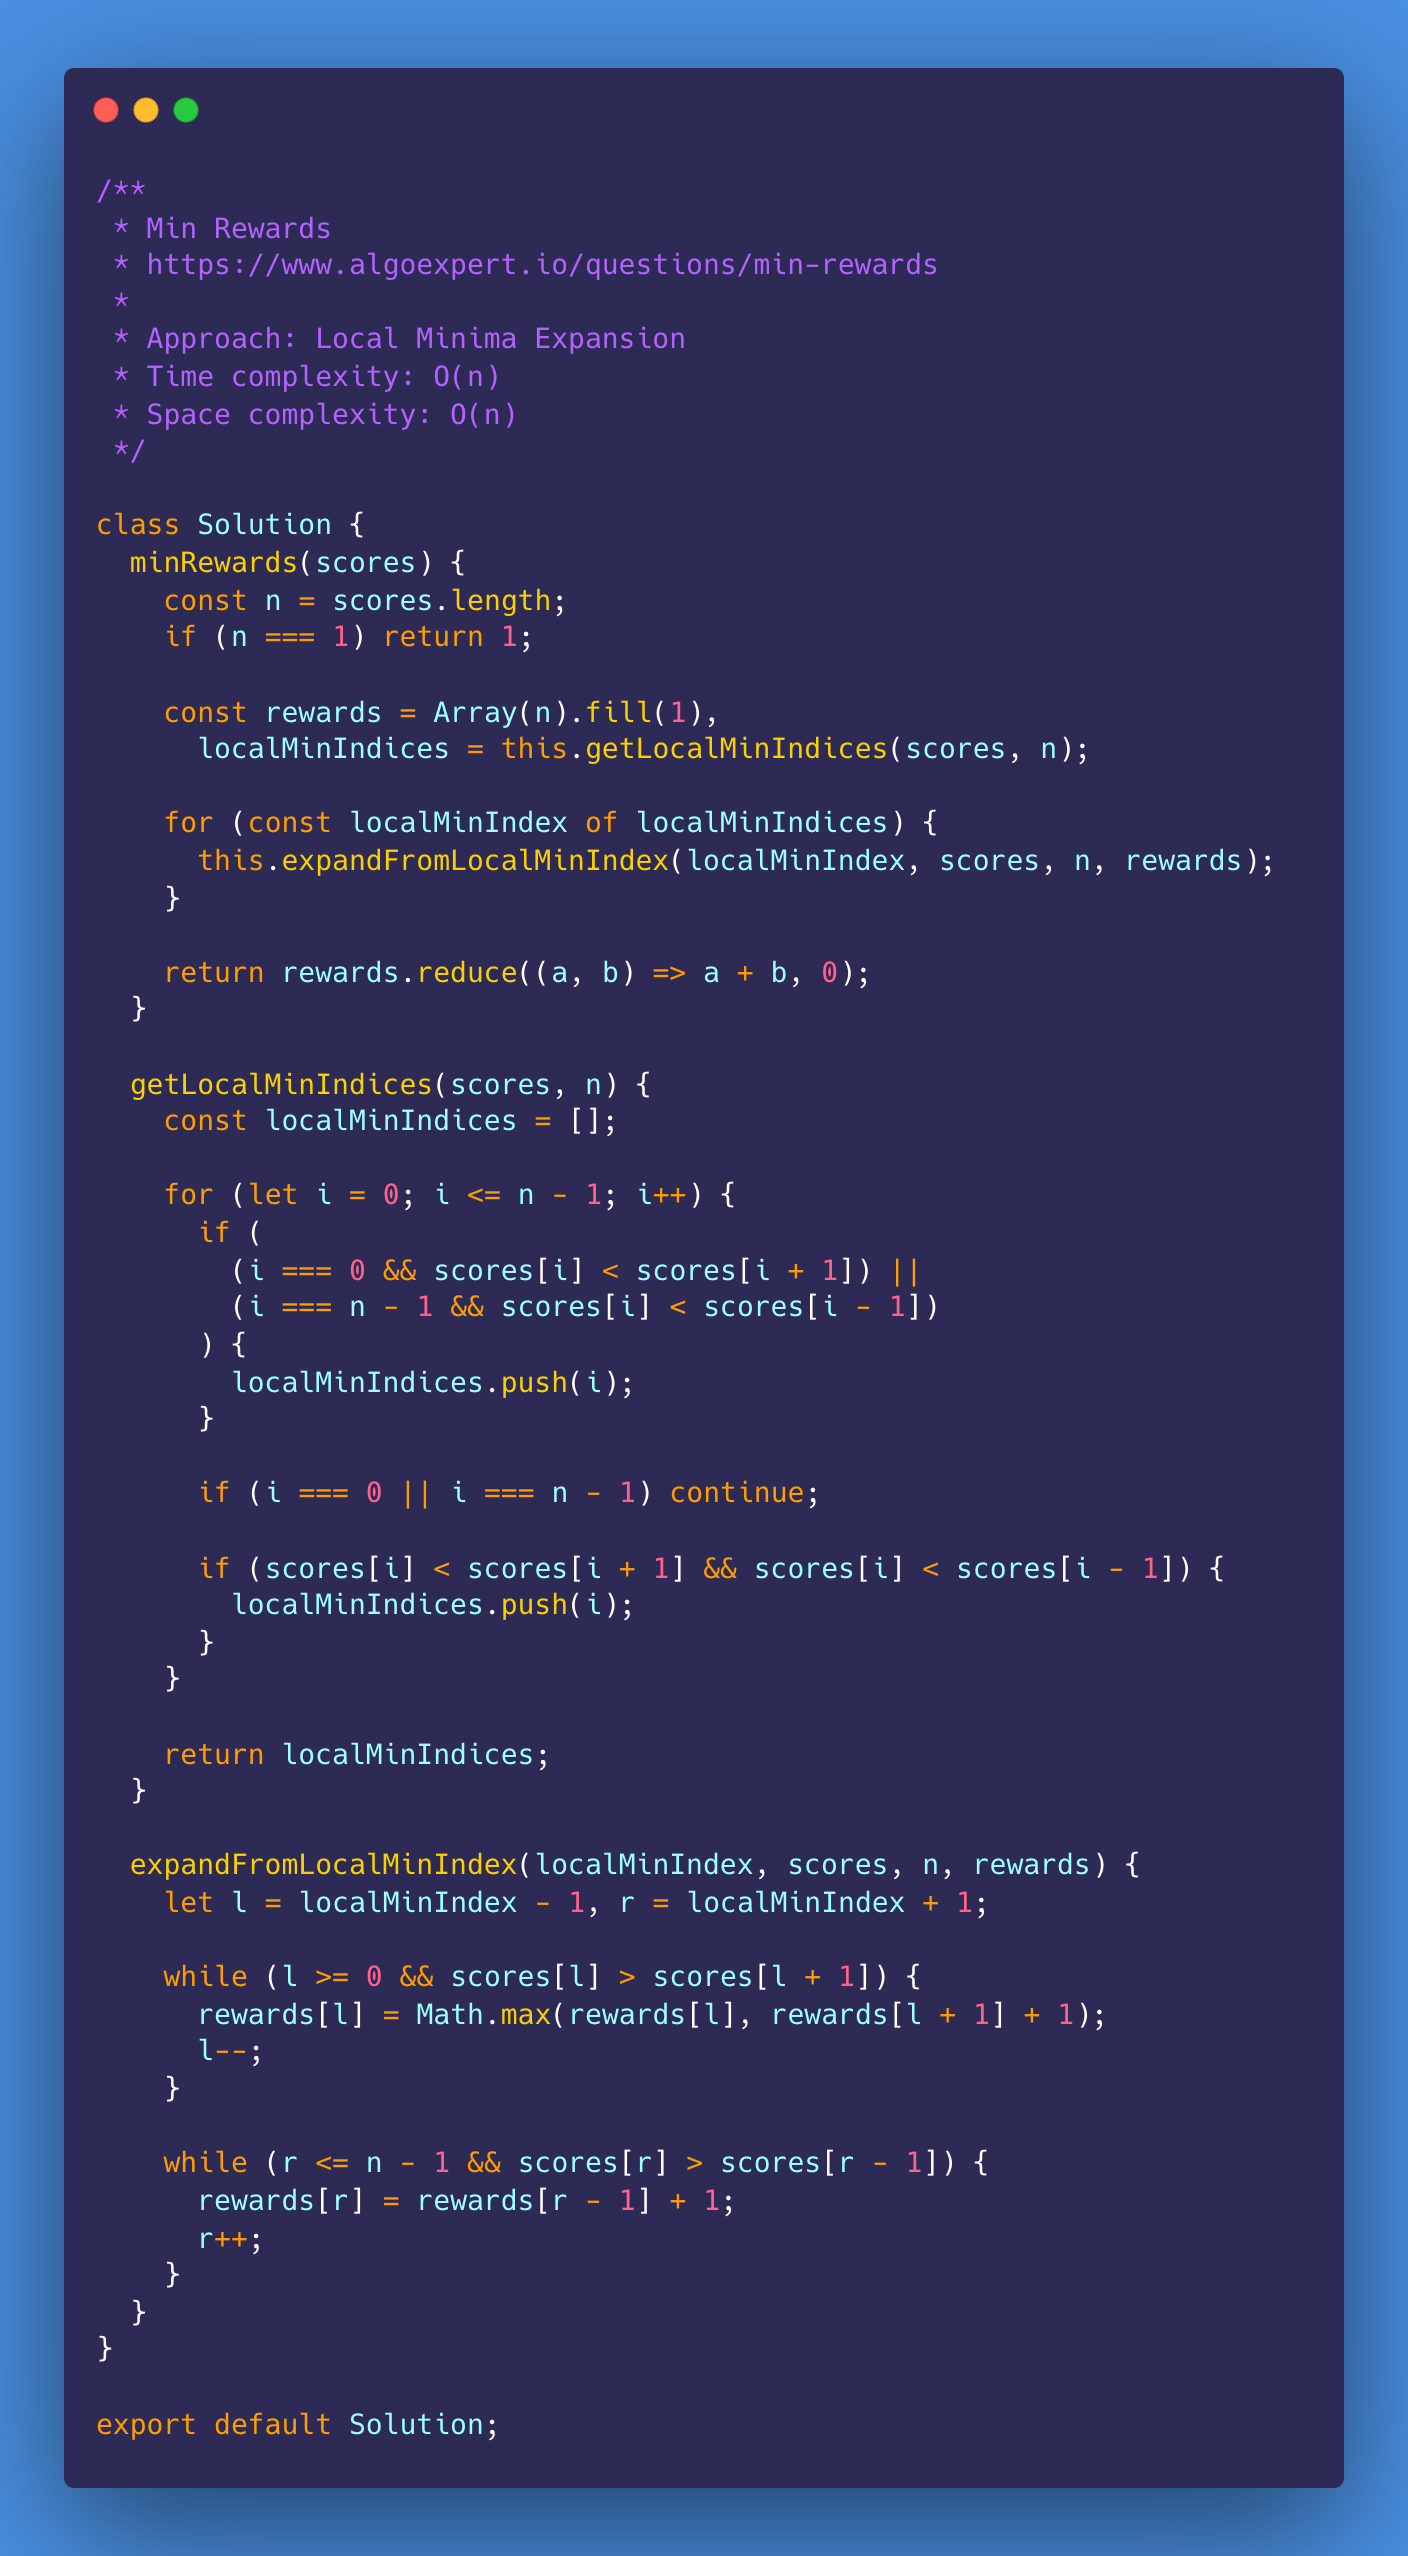
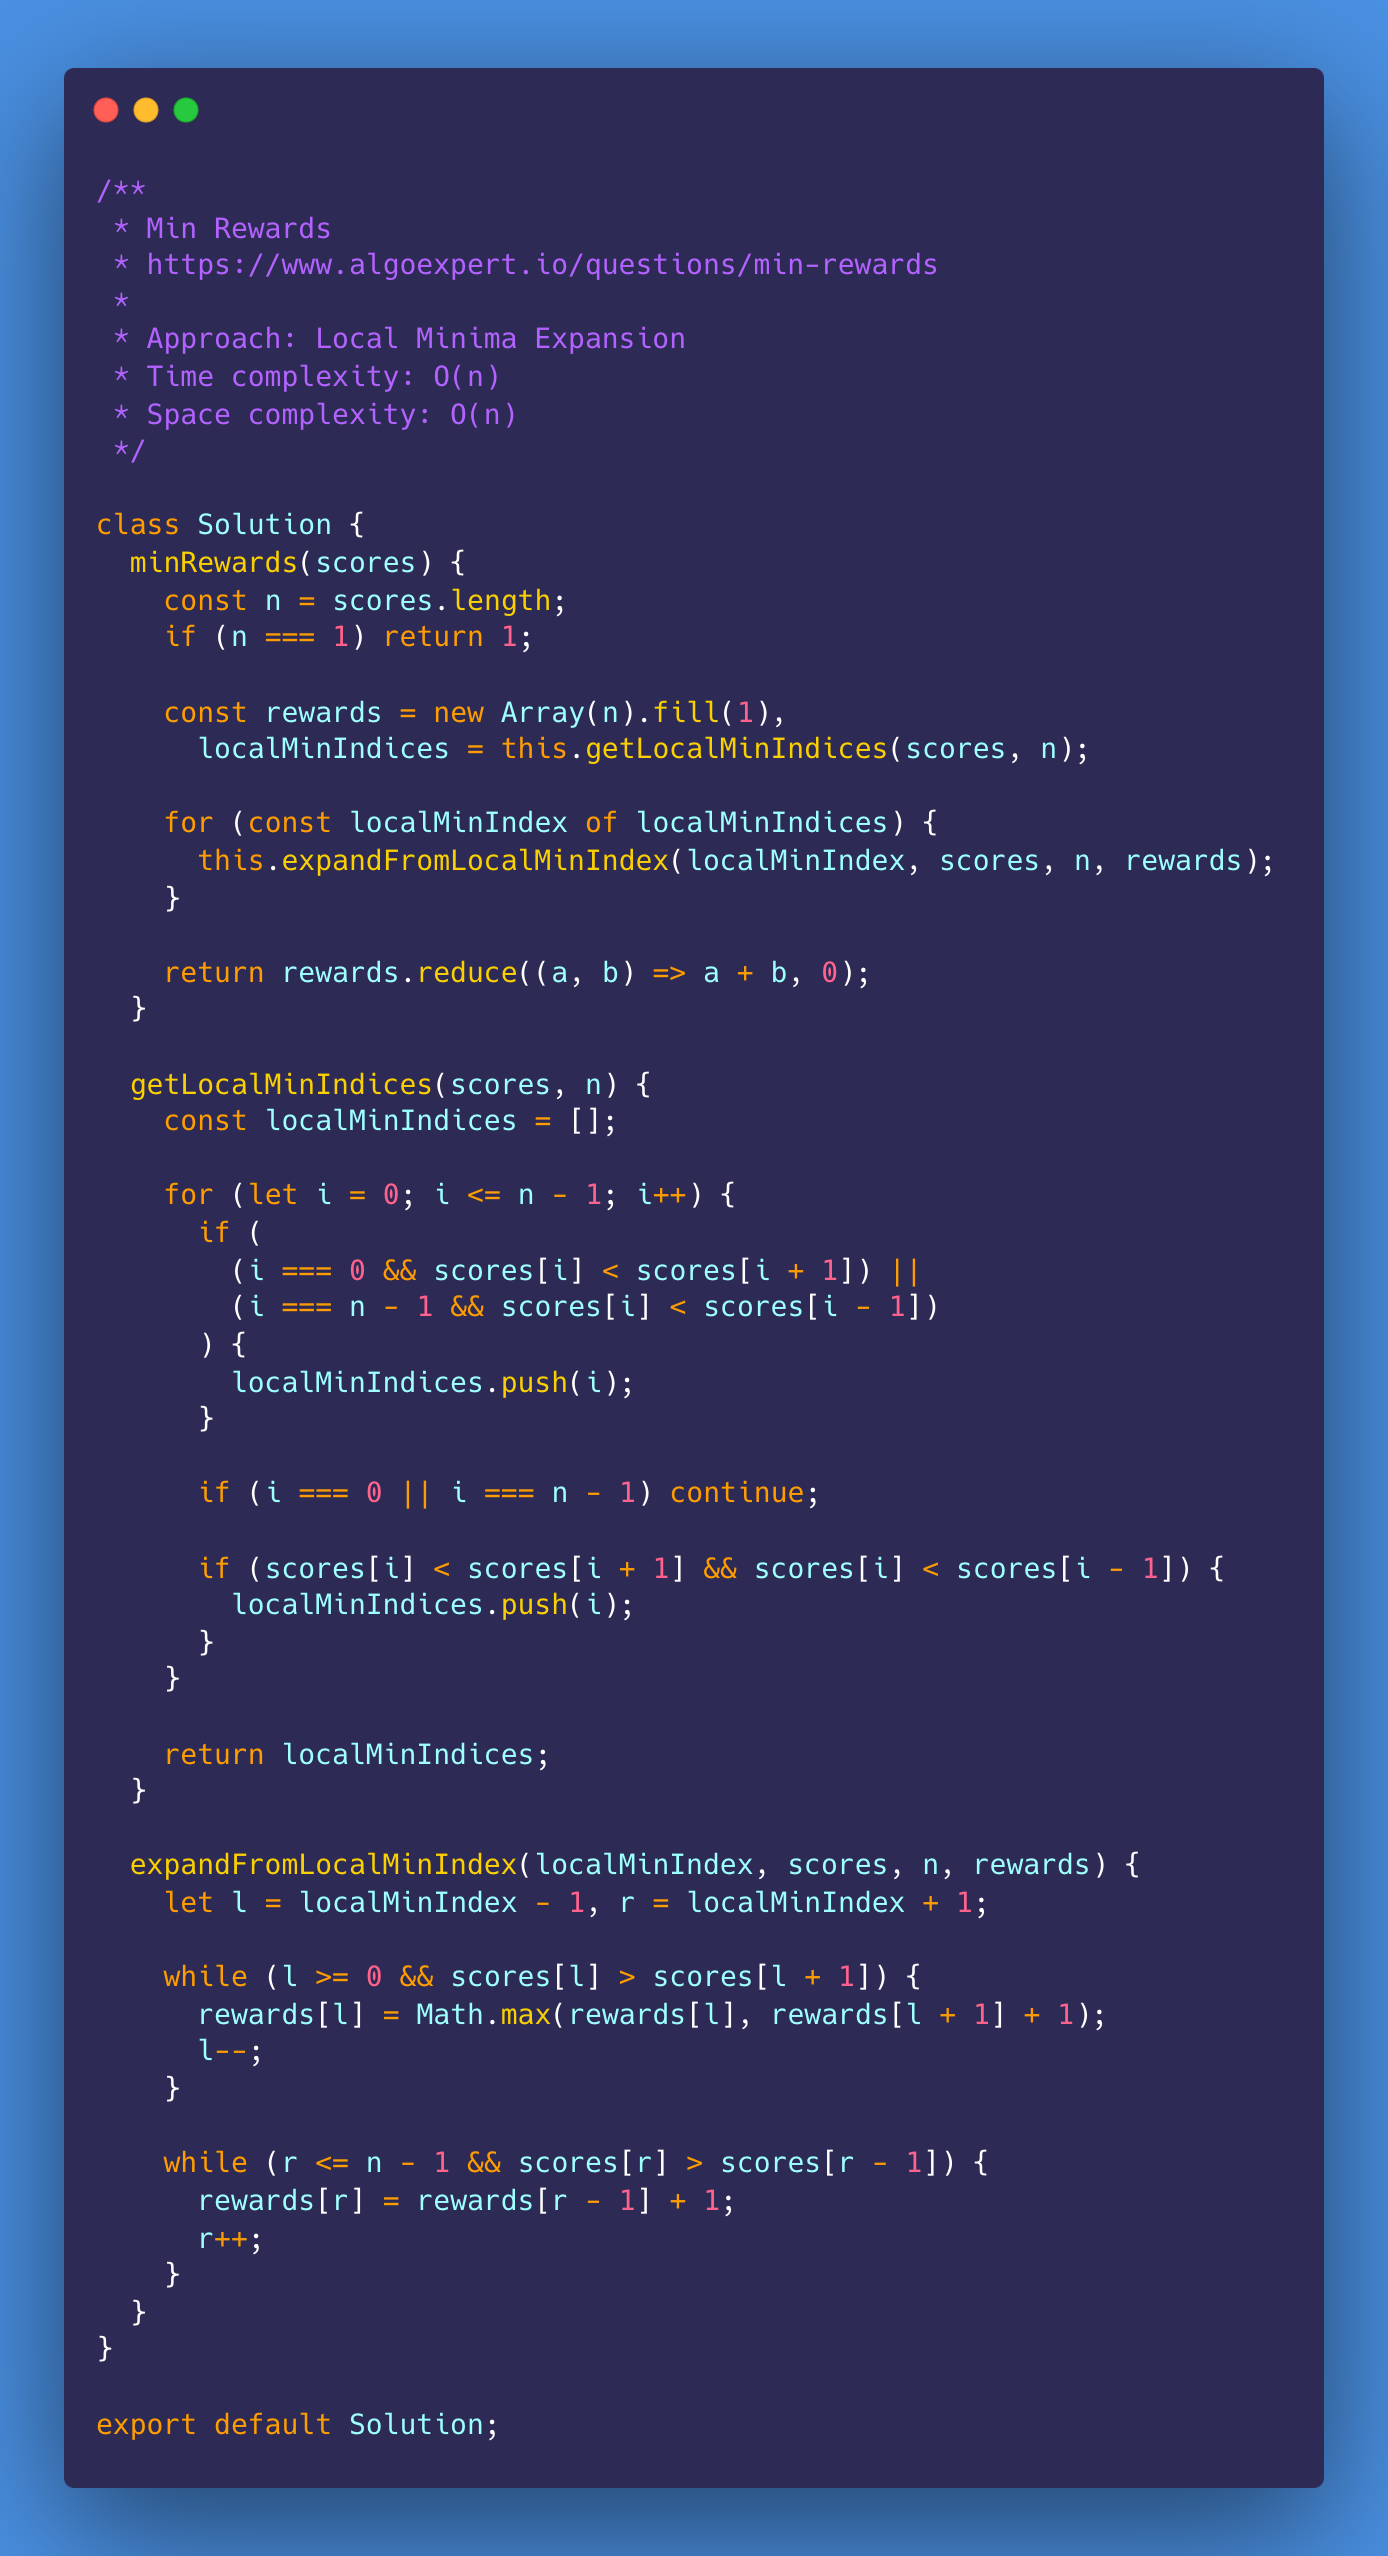
Min Rewards updates

diff --git a/002-algoexpert/024-min-rewards/002-solution/Solution.js b/002-algoexpert/024-min-rewards/002-solution/Solution.js
@@ -12,7 +12,7 @@ class Solution {
     const n = scores.length;
     if (n === 1) return 1;
 
-    const rewards = Array(n).fill(1),
+    const rewards = new Array(n).fill(1),
       localMinIndices = this.getLocalMinIndices(scores, n);
 
     for (const localMinIndex of localMinIndices) {

diff --git a/002-algoexpert/024-min-rewards/003-solution/Solution.js b/002-algoexpert/024-min-rewards/003-solution/Solution.js
@@ -16,7 +16,7 @@ class Solution {
     const n = scores.length;
     if (n === 1) return 1;
 
-    const rewards = Array(n).fill(1);
+    const rewards = new Array(n).fill(1);
 
     for (let i = 1; i <= n - 1; i++) {
       if (scores[i] > scores[i - 1]) {

diff --git a/002-algoexpert/024-min-rewards/001-solution/Solution.js b/002-algoexpert/024-min-rewards/001-solution/Solution.js
@@ -12,7 +12,7 @@ class Solution {
     const n = scores.length;
     if (n === 1) return 1;
 
-    const rewards = Array(n).fill(1);
+    const rewards = new Array(n).fill(1);
 
     for (let i = 1; i <= n - 1; i++) {
       let j = i - 1;
